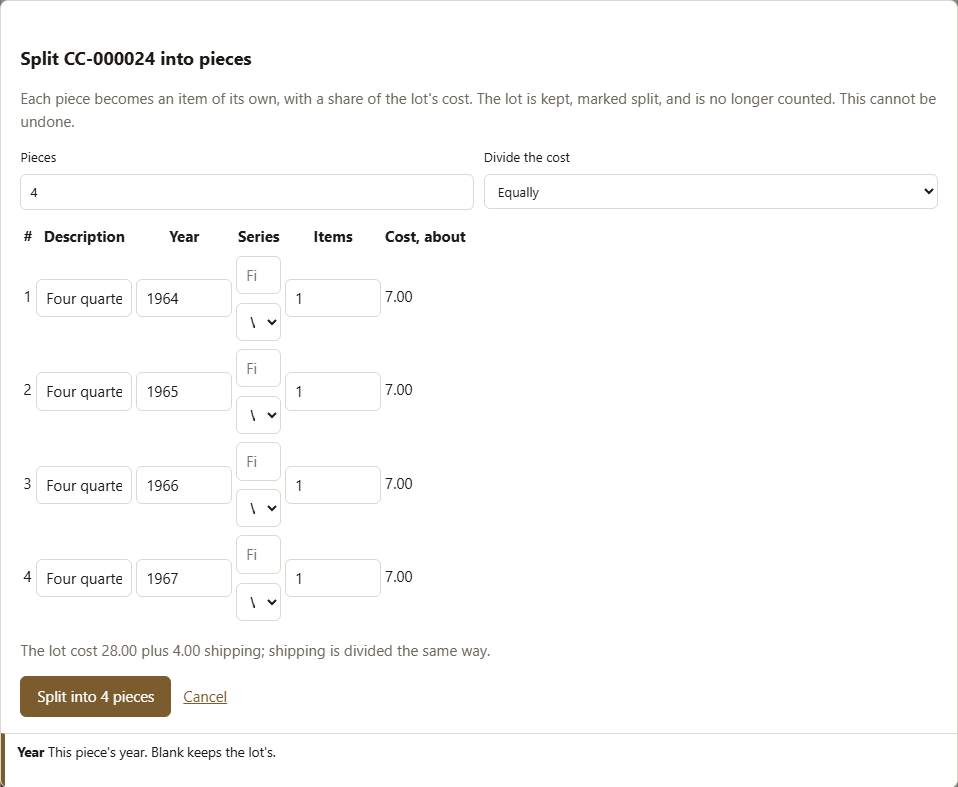
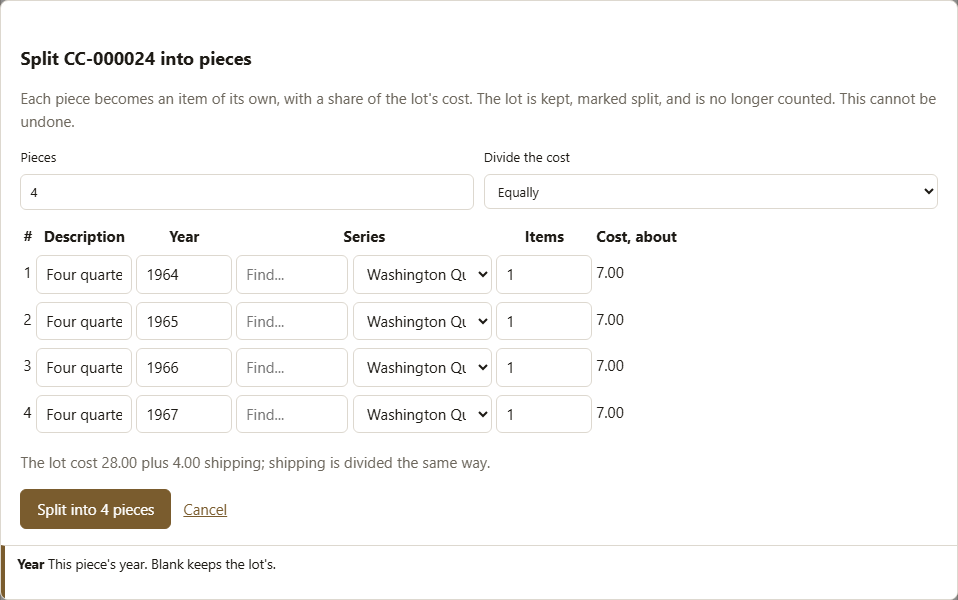
The Split dialog's series picker has room, and the guide shows Labels
The pictures retaken by the new tool showed the Split dialog's Series
picker squeezed to a few pixels: boxes in a stacking table take no width
of their own, and the picker's select sets min-width 0, so nothing held
the column open while the dialog had room to spare. Above the phone
breakpoint the picker now keeps 16rem; stacked on a phone it fills its
row as before. split_dialog.png is retaken with it.

The guide's Labels section shows labels.png. test_ui_guide_pictures.py
ties the guide to the tool: every picture the guide embeds is one
PICTURES retakes and is in the repository, and the reverse; each is named
once; and the demo database is a name neither the test gate nor the
backups drop.

diff --git a/frontend/src/shared/shared.css b/frontend/src/shared/shared.css
@@ -449,6 +449,18 @@ button.link {
   flex: 0 1 7rem;
 }
 
+/* A split piece's series picker, in a table whose boxes take no width of
+   their own (above): with nothing to hold its column open, the find box
+   and select were squeezed to a few pixels each while the dialog had room
+   to spare. Wide enough for both side by side and a series name -- only
+   where the table is a table: stacked on a phone (below), the cell is a
+   row as wide as the screen and the picker fills it. */
+@media (min-width: 40.0625rem) {
+  .split-series .reference-select {
+    min-width: 16rem;
+  }
+}
+
 /* Adding a vocabulary value inline, from the picker that needed it. */
 .add-reference {
   display: flex;

diff --git a/frontend/src/management/pages/inventory/SplitDialog.jsx b/frontend/src/management/pages/inventory/SplitDialog.jsx
@@ -314,7 +314,11 @@ export default function SplitDialog({ item, onSplit, onClose }) {
                     />
                   </td>
                 )}
-                <td data-help="split_series" data-label="Series">
+                <td
+                  className="split-series"
+                  data-help="split_series"
+                  data-label="Series"
+                >
                   <ReferenceSelect
                     table="series"
                     label={`Series of piece ${index + 1}`}

diff --git a/backend/tests/test_ui_guide_pictures.py b/backend/tests/test_ui_guide_pictures.py
@@ -1,0 +1,51 @@
+# (c) Copyright 2026 Nathaniel Mills
+# Open Source licensed under Apache 2.0: https://www.apache.org/licenses/LICENSE-2.0
+# SPDX-License-Identifier: Apache-2.0
+"""The screen guide's pictures and the tool that takes them agree.
+
+`ui_guide.pictures.PICTURES` is the list `scripts/ccweb_ui_guide` retakes.
+A picture the guide shows with no entry there goes stale at the next
+change to its screen and is never retaken; an entry the guide does not
+show is taken for nobody. Neither runs the tool: these read its table.
+"""
+
+from __future__ import annotations
+
+import re
+from pathlib import Path
+
+from ui_guide.pictures import PICTURES
+from ui_guide.stack import DEMO_DATABASE
+
+REPO_ROOT = Path(__file__).resolve().parents[2]
+GUIDE = REPO_ROOT / "docs" / "ui-guide.md"
+
+#: An image the guide embeds from its own picture folder.
+_SHOWN = re.compile(r"!\[[^\]]*\]\(images/ui-guide/([\w-]+)\.png\)")
+
+
+def _shown() -> set[str]:
+    """The names of the pictures docs/ui-guide.md embeds."""
+    return set(_SHOWN.findall(GUIDE.read_text(encoding="utf-8")))
+
+
+def test_every_picture_the_guide_shows_is_one_the_tool_takes() -> None:
+    taken = {picture.name for picture in PICTURES}
+    assert sorted(_shown() - taken) == [], "shown in the guide, never retaken"
+    assert sorted(taken - _shown()) == [], "retaken, shown nowhere"
+
+
+def test_each_picture_is_named_once() -> None:
+    names = [picture.name for picture in PICTURES]
+    assert len(names) == len(set(names))
+
+
+def test_every_picture_the_guide_shows_is_in_the_repository() -> None:
+    folder = REPO_ROOT / "docs" / "images" / "ui-guide"
+    assert sorted(n for n in _shown() if not (folder / f"{n}.png").exists()) == []
+
+
+def test_the_demo_database_is_one_nothing_else_drops() -> None:
+    """The test gate drops `ccwebdb..._test`; backups drop `ccwebdb_proof_*`."""
+    assert not DEMO_DATABASE.startswith("ccwebdb")
+    assert not DEMO_DATABASE.endswith("_test")

diff --git a/docs/ui-guide.md b/docs/ui-guide.md
@@ -319,6 +319,8 @@ ticked, since finding the coins can take days.
 each. To add an item, type its number in **Item number** and press **Add to
 batch**.
 
+![The Labels page: the print batch's sheets, the labels printed and waiting to be applied, and the print batch](images/ui-guide/labels.png)
+
 Its fields:
 
 | Field | What it is |
